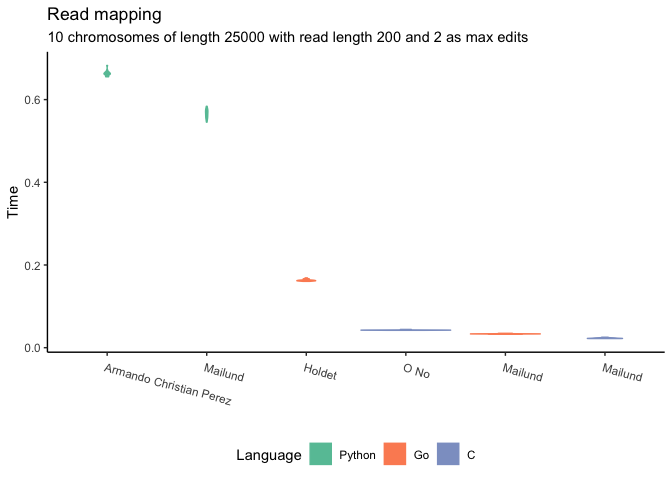
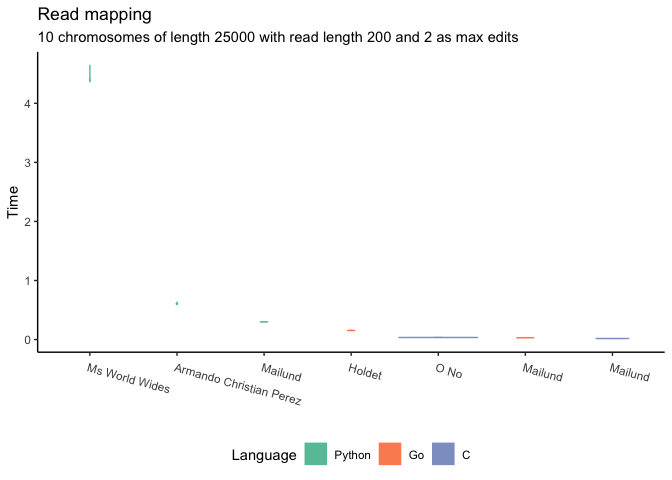
comparison

diff --git a/README.md b/README.md
@@ -1,64 +1,104 @@
-# Readmapper performance report
+<!-- ## Status of projects -->
+<!--
 
-This is an autogenerated report of the current performance of
-readmappers that pass the Github Actions tests.
+|Team                    |Language |Status |
+|:-----------------------|:--------|:------|
+|armando-christian-perez |Python   |pass   |
+|team                    |Python   |fail   |
+|illiterate-apes         |Python   |fail   |
+|holdet                  |Go       |pass   |
+|o-no                    |C        |pass   |
+|quadratic-solution      |C        |fail   |
+-->
 
-## Status of projects
+## Preprocessing performance (all teams)
 
-<table>
-<thead>
-<tr class="header">
-<th style="text-align: left;">Team</th>
-<th style="text-align: left;">Language</th>
-<th style="text-align: left;">Status</th>
-</tr>
-</thead>
-<tbody>
-<tr class="odd">
-<td style="text-align: left;">armando-christian-perez</td>
-<td style="text-align: left;">Python</td>
-<td style="text-align: left;">pass</td>
-</tr>
-<tr class="even">
-<td style="text-align: left;">team</td>
-<td style="text-align: left;">Python</td>
-<td style="text-align: left;">pass</td>
-</tr>
-<tr class="odd">
-<td style="text-align: left;">ms-world-wides</td>
-<td style="text-align: left;">Python</td>
-<td style="text-align: left;">pass</td>
-</tr>
-<tr class="even">
-<td style="text-align: left;">holdet</td>
-<td style="text-align: left;">Go</td>
-<td style="text-align: left;">pass</td>
-</tr>
-<tr class="odd">
-<td style="text-align: left;">o-no</td>
-<td style="text-align: left;">C</td>
-<td style="text-align: left;">pass</td>
-</tr>
-</tbody>
-</table>
+I first ran all tools on small data sets (genomes with 10 chromosomes of
+length 2500 or 5000). This is a truly tiny size for a genome, and
+everyone should be able to handle that. After that, we can compare the
+faster tools with larger genomes.
 
-## Preprocessing performance (full competition)
+I have included all student projects plus three of my own: one
+read-mapper in each language (Python, Go, and C). My own implementations
+are roughly equivalent, except for language, and except where language
+features makes one solution more natural than another: for Go, using
+closures to iterate through solutions while in Python you more naturally
+use generators, and in C I use a state machine.
+
+Without further ado, here are the results:
 
 ![](README_files/figure-markdown_strict/plot_short_pref-1.png)![](README_files/figure-markdown_strict/plot_short_pref-2.png)
 
-## Mapping performance (full list)
+The solutions are sorted in descending order according to their mean
+running time over 20 repeats, so the father right you get, the faster
+the tool.
+
+Except for a few outliers at the left end, the tools have comparable
+running time. This is partly because we are looking at such a small data
+set (spoiler alert) and because the slow contestants push the other
+tools down close to zero when I fit all the time measurements on the
+same y-axis.
+
+If we remove the two slowest teams we get a bit more detail for the
+rest:
+
+![](README_files/figure-markdown_strict/unnamed-chunk-2-1.png)![](README_files/figure-markdown_strict/unnamed-chunk-2-2.png)
+
+## Mapping performance (all teams)
+
+The preprocessing isn’t everything, of course. As long as it is fast
+enough to handle a genome in reasonable time, it is more important that
+the mapping is fast. You tend to only preprocess a genome once, but you
+will map against it many times.
+
+So, I measured the time it would take to map reads of length 200 (a
+small to medium length for reads) allowing one or two edits against the
+two sizes of genomes.
 
 ![](README_files/figure-markdown_strict/plot_short_map-1.png)![](README_files/figure-markdown_strict/plot_short_map-2.png)![](README_files/figure-markdown_strict/plot_short_map-3.png)![](README_files/figure-markdown_strict/plot_short_map-4.png)
 
-## Competitors
+We are in much the same situation as with preprocessing, where it is
+hard to see how the majority of teams compare because of the extreme
+time the slowest tools use, but if we remove the two slowest again we
+get:
 
-These are the teams that are fast enough for a longer run. Improve your
-speed to get on it.
+![](README_files/figure-markdown_strict/unnamed-chunk-3-1.png)![](README_files/figure-markdown_strict/unnamed-chunk-3-2.png)![](README_files/figure-markdown_strict/unnamed-chunk-3-3.png)![](README_files/figure-markdown_strict/unnamed-chunk-3-4.png)
+
+## Longer genomes
+
+Now let’s take the data size up from toy examples to something within
+three or four orders of magnitude from real data for the tools that can
+handle that: we increase the chromosome lengths to 25,000 or 50,000. For
+small data sets, the running time can be affected by tiny algorithmic or
+programming choices, but when we increase the data we get a much better
+feeling of the overall quality of solutions. Based on the results above,
+I found it necessary to exclude “Illiterate Apes”, “Team”, and “Asg”
+from this part of the evaluation.
 
 ### Preprocessing
 
+Again, let’s first consider the preprocessing time:
+
 ![](README_files/figure-markdown_strict/plot_long_pref-1.png)![](README_files/figure-markdown_strict/plot_long_pref-2.png)
+
+It looks like the benefits you would expect from implementing in Go (for
+“Holdet”) or C (for “O No”) didn’t quite compensate for some algorithmic
+choices in implementing the suffix array construction algorithm. If we
+remove these teams we can see how the remaining tools compare:
+
+![](README_files/figure-markdown_strict/unnamed-chunk-4-1.png)![](README_files/figure-markdown_strict/unnamed-chunk-4-2.png)
+
+There is not a huge difference any longer. The C and Go implementations
+have an unreasonable advantage by being compiled languages, but the
+Python tools are roughly the same.
 
 ### Mapping
 
+Turning to mapping, I ran with reads of 200 and one or two edits, just
+as before. The results are these:
+
 ![](README_files/figure-markdown_strict/plot_long_map-1.png)![](README_files/figure-markdown_strict/plot_long_map-2.png)![](README_files/figure-markdown_strict/plot_long_map-3.png)![](README_files/figure-markdown_strict/plot_long_map-4.png)
+
+If we remove the slowest (sorry “Ms World Wides”) we get:
+
+![](README_files/figure-markdown_strict/plot_long_map_small-1.png)![](README_files/figure-markdown_strict/plot_long_map_small-2.png)![](README_files/figure-markdown_strict/plot_long_map_small-3.png)![](README_files/figure-markdown_strict/plot_long_map_small-4.png)
